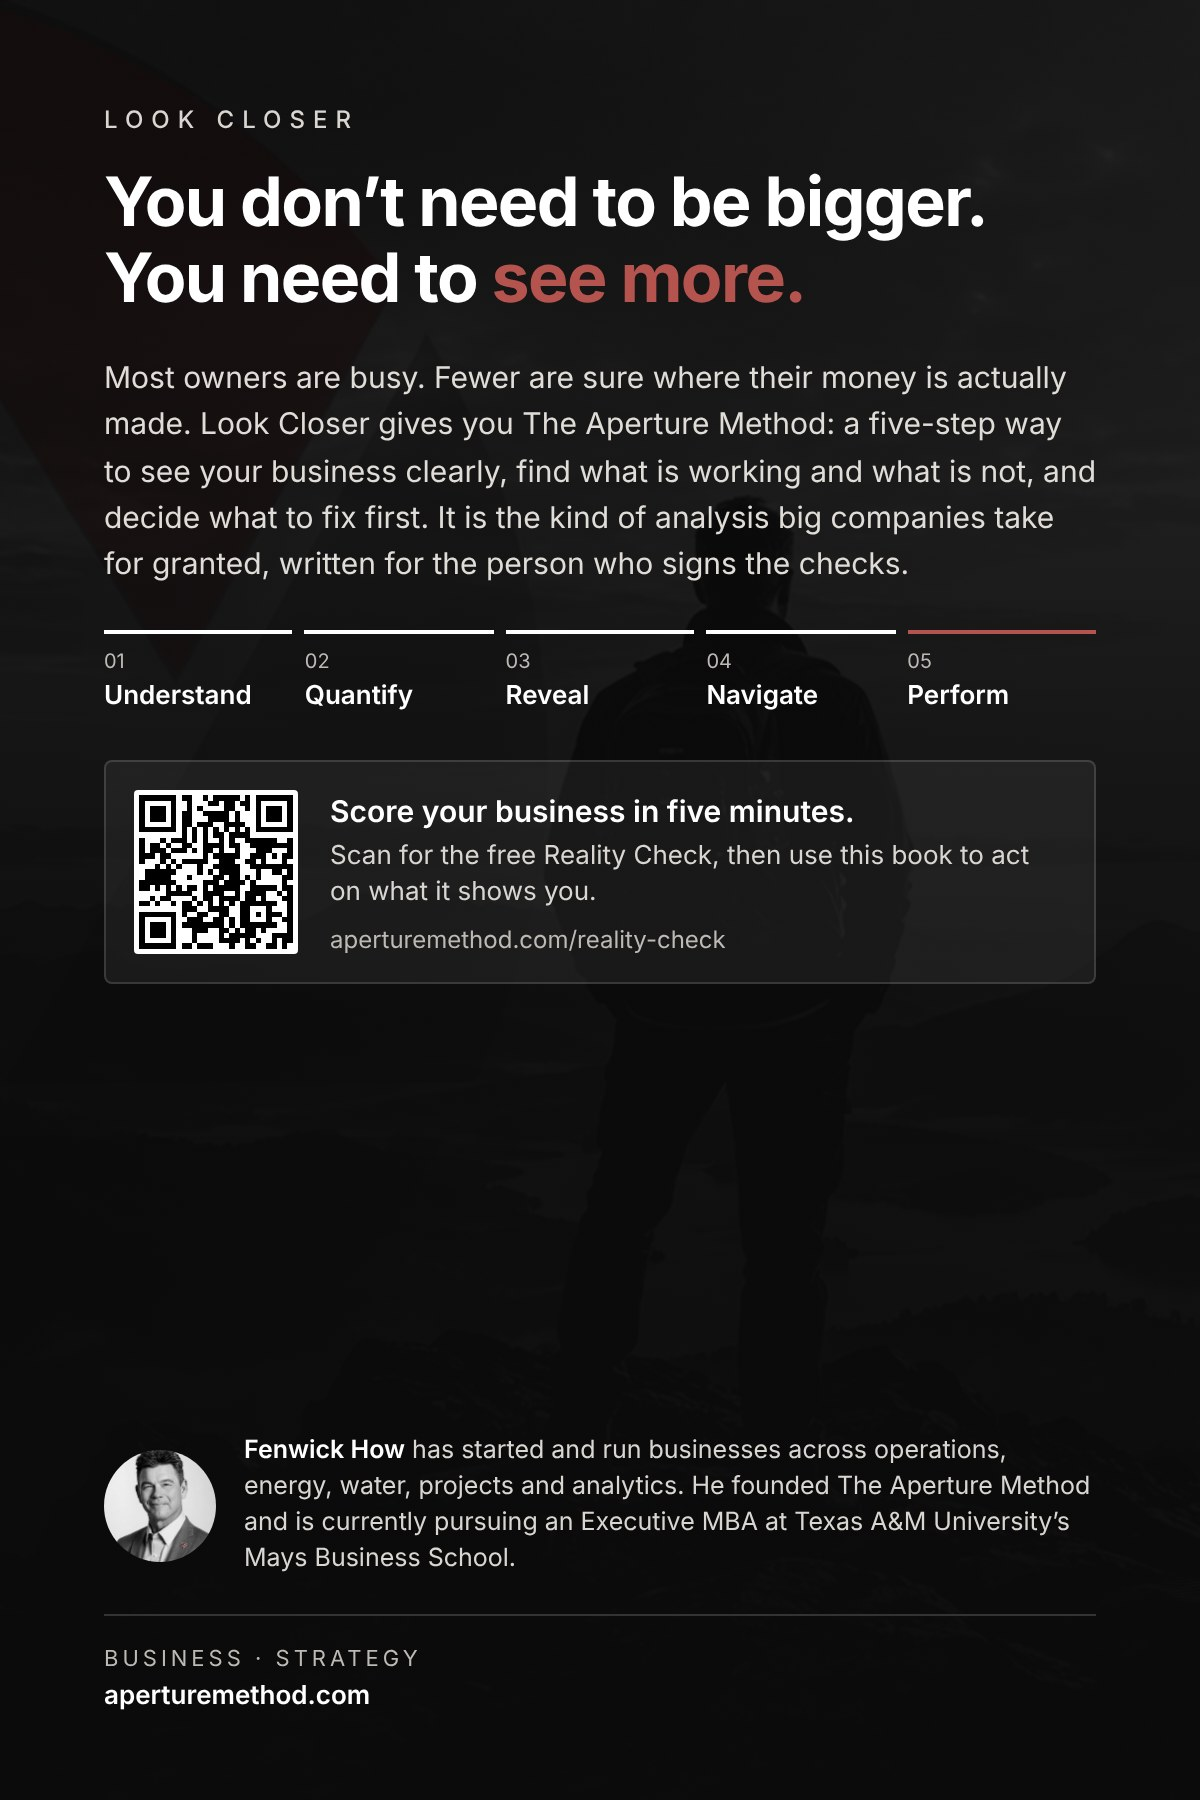
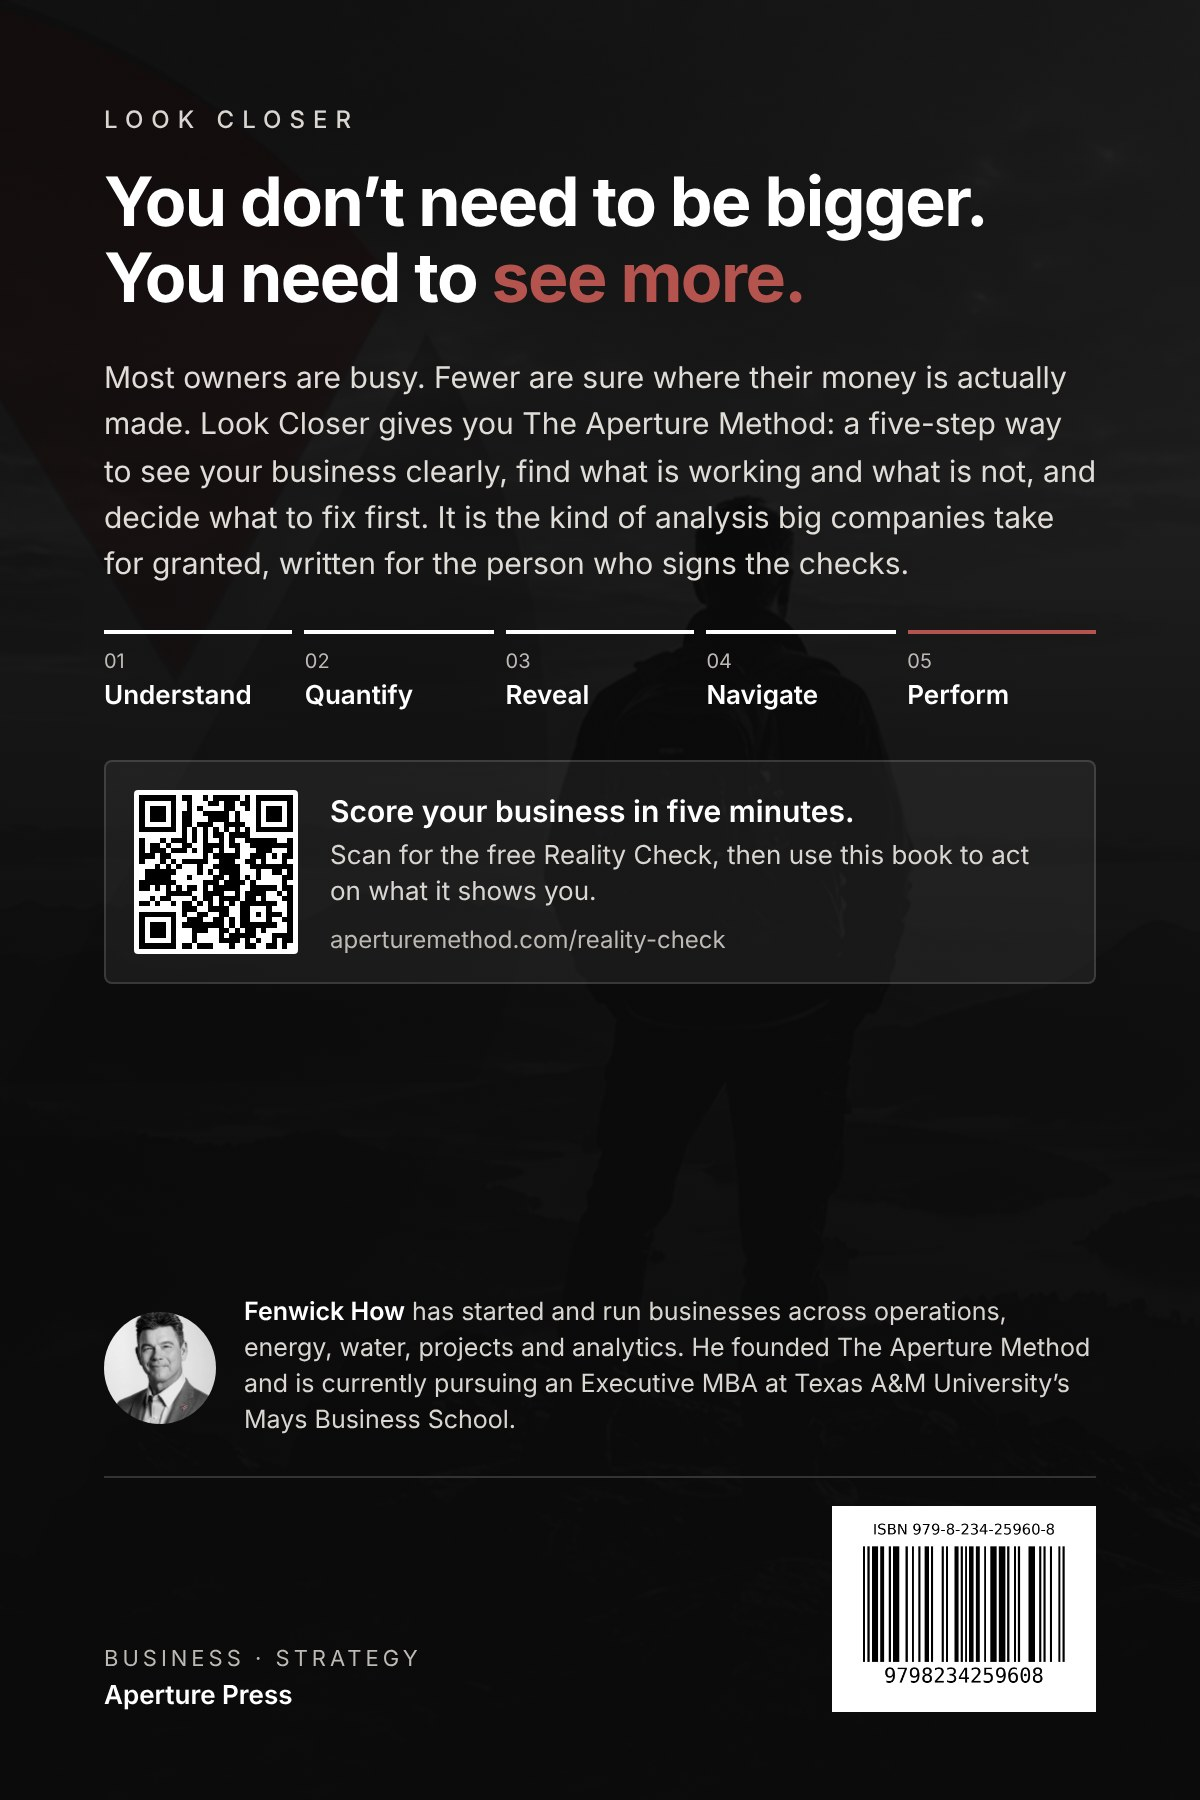
1

Changed region(s): [[0.0617, 0.7156, 0.925, 0.9644], [0.0925, 0.9333, 0.3083, 0.9644]]

diff --git a/src/app/book/page.tsx b/src/app/book/page.tsx
@@ -8,7 +8,7 @@ import { PreorderForm } from "@/components/forms/PreorderForm";
 import { Book3D } from "@/components/home/Book3D";
 import { aperturePractices } from "@/lib/content";
 import { pageMeta } from "@/lib/seo";
-import { bookContributors, bookExcerpt } from "@/lib/book";
+import { bookContributors, bookExcerpt, BOOK_ISBN, BOOK_ISBN_VERIFY_URL, BOOK_PUBLISHER } from "@/lib/book";
 
 /**
  * Book serif for the excerpt only (Source Serif 4, SIL OFL, self-hosted like
@@ -76,6 +76,18 @@ export default function BookPage() {
                 Reserve your copy
               </a>
             </div>
+            <p className="mt-6 text-small text-muted">
+              {BOOK_PUBLISHER} · Paperback · ISBN <span className="font-semibold text-ink tabular-nums">{BOOK_ISBN}</span>
+              {" · "}
+              <a
+                href={BOOK_ISBN_VERIFY_URL}
+                target="_blank"
+                rel="noopener noreferrer"
+                className="underline underline-offset-2 hover:text-maroon"
+              >
+                Verify this ISBN
+              </a>
+            </p>
           </Reveal>
         </div>
       </Section>

diff --git a/src/lib/book.ts b/src/lib/book.ts
@@ -36,6 +36,11 @@ export const bookContributors: BookContributor[] = [
 /** Front-cover art (photo only; all type is live HTML so names can change). */
 export const BOOK_COVER_ART = "/book/cover-art.jpg";
 
+/** Registered ISBN (Bowker, paperback). Shown on /book with a public lookup link. */
+export const BOOK_ISBN = "979-8-234-25960-8";
+export const BOOK_PUBLISHER = "Aperture Press";
+export const BOOK_ISBN_VERIFY_URL = "https://isbnsearch.org/isbn/9798234259608";
+
 /** Back cover: a flat render of the approved Look Closer back-cover design. */
 export const BOOK_BACK_ART = "/book/back-cover.jpg";
 
